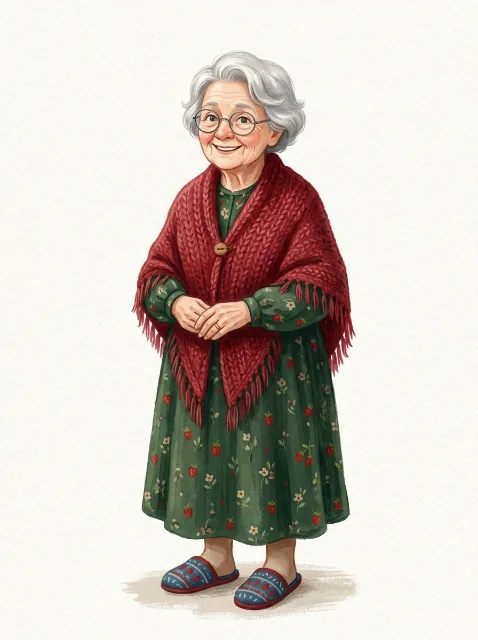
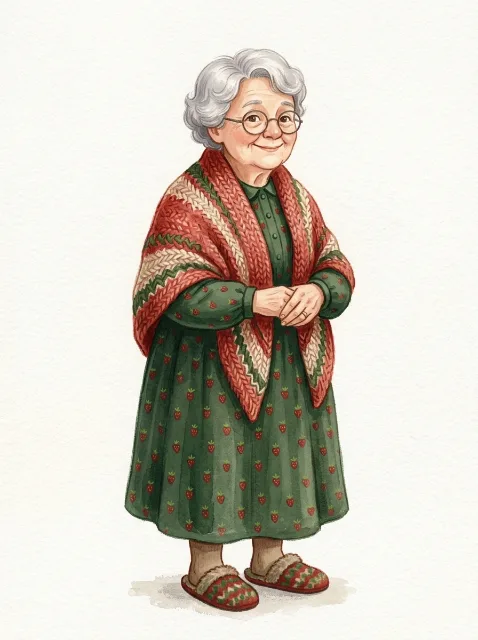
Look inside: painted example pages, and a real page at the top (#8)
* Look inside: painted example pages with the stand-in family; a real page at the top

- Each spread shows its painted example picture (assets/img/redhood/s<n>.webp), drawn once by the
  cartoon service from our stand-in characters, so every character is in the scene at full strength
  and in the same style as the Meet the characters page.
- The example at the top of the home and story pages is now spread 9 exactly as in the book.

Claude-Session: https://claude.ai/code/session_01FRhcjgdg7b4fVPXzaJmo7w

* Painted example pages for Little Red Riding Hood with our stand-in family (no customer photos)

* Rebuild with the painted example pages

Claude-Session: https://claude.ai/code/session_01FRhcjgdg7b4fVPXzaJmo7w

---------

Changed region(s): [[0.2636, 0.0625, 0.7615, 0.9688]]

diff --git a/dist/little-red-riding-hood.html b/dist/little-red-riding-hood.html
@@ -34,20 +34,13 @@
 <div class="bhero-meta"><span class="chip">Ages 3 to 7</span><span class="chip">12 spreads</span><span class="chip">Hardcover</span><span class="chip"><span class="money" data-eur="39">£34</span></span></div>
 <div class="hero-cta"><a class="btn red" href="#characters">Meet your characters, free</a><a class="btn ghost" href="#look-inside">Look inside</a></div>
 </div>
-<div class="spread" role="img" aria-label="An example page from Little Red Riding Hood">
-<div class="leaf"><p class="kicker">Little Red Riding Hood &middot; page 6</p><p class="story-text">Grandma peeped out of the window and saw a long grey tail. <b>“A wolf in a hurry,”</b> she said, and picked up her rolling pin.</p></div>
-<div class="leaf art"><svg viewBox="0 0 400 500" preserveAspectRatio="xMidYMid slice" aria-hidden="true">
-<rect width="400" height="500" fill="#DDEFE3"/><circle cx="320" cy="90" r="42" fill="#FFE59A"/>
-<path d="M0 300q100-60 200-20t200-30v250H0z" fill="#9CCB8C"/><path d="M0 360q120-40 220 0t180 0v140H0z" fill="#6FAE6A"/>
-<g fill="#2E6B4F"><path d="M40 330 80 170l40 160z"/><path d="M300 320l36-140 36 140z"/><path d="M250 340l26-100 26 100z" opacity=".8"/></g>
-<path d="M150 500q30-80 90-140" stroke="#E9D9B4" stroke-width="34" fill="none" stroke-linecap="round"/>
-<g transform="translate(150 300) scale(1.25)"><path d="M24 126 34 62h32l10 64z" fill="#C8352A"/><path d="M28 50c0-24 44-24 44 0v16H28z" fill="#C8352A"/><circle cx="50" cy="44" r="16" fill="#F3C9A8"/><path d="M34 42c2-14 30-14 32 0-6-6-26-6-32 0z" fill="#7a3b1e"/><circle cx="44" cy="46" r="1.8" fill="#1E1A33"/><circle cx="56" cy="46" r="1.8" fill="#1E1A33"/><path d="M45 52q5 4 10 0" stroke="#1E1A33" stroke-width="1.6" fill="none" stroke-linecap="round"/><path d="M64 90h22l-3 14H67z" fill="#9A5B34"/></g>
-<rect x="300" y="400" width="90" height="26" rx="13" fill="#8a5a3a"/><path d="M296 404q-30-30-10-60 6 24 22 40" fill="#8f8f9a"/>
-</svg></div></div>
+<figure class="hero-spread"><div class="bv-page bv-spread side-right" role="img" aria-label="Spread 9 of Little Red Riding Hood: The Wolf grins to show his very big teeth">
+<div class="bv-pic"><img src="assets/img/redhood/s9.webp" alt=""></div><div class="bv-text"><p>“<b>Granny</b>, what big EYES you have!”</p><p>“All the better to see you with.”</p><p>“And <b>Granny</b>… what big TEETH you have!”</p><p>“All the better to…”</p></div></div>
+<figcaption class="small">Spread 9 of Little Red Riding Hood, with our stand-in family. Yours is painted with your own.</figcaption></figure>
 </section>
 
 <section id="look-inside" class="section" style="--bc:var(--red);padding-top:24px"><div class="wrap">
-<div class="sec-head"><p class="eyebrow">Look inside</p><h2>Flick through the story</h2><p class="lede">Read every page of Little Red Riding Hood with your own family's names. The pictures here are simple stand-ins: in your book, every page is painted with your family as the characters.</p></div>
+<div class="sec-head"><p class="eyebrow">Look inside</p><h2>Flick through the story</h2><p class="lede">Read every page of Little Red Riding Hood with your own family's names. The pictures show our own stand-in family; in your book, every page is painted with your family as the characters.</p></div>
 <div class="bv" data-book="redhood" tabindex="-1">
 <details class="bv-names"><summary>Try it with your names</summary><div class="bv-name-grid"><label class="field"><span>Little Red</span><input type="text" data-name="hero" maxlength="24" placeholder="e.g. Amara"></label><label class="field"><span>Mum</span><input type="text" data-name="mum" maxlength="24" placeholder="e.g. Mummy"></label><label class="field"><span>Grandma</span><input type="text" data-name="grandma" maxlength="24" placeholder="e.g. Granny"></label><label class="field"><span>The woodcutter</span><input type="text" data-name="helper" maxlength="24" placeholder="e.g. Daddy"></label></div></details>
 <div class="bv-stage" aria-live="polite"></div>

diff --git a/dist/index.html b/dist/index.html
@@ -32,16 +32,9 @@
 <p class="lede">The classic fairy tales, beautifully retold, with your child and your family as the characters.</p>
 <div class="hero-cta"><a class="btn red" href="#join">Join the list for 15% off</a><a class="btn ghost" href="little-red-riding-hood.html#look-inside">Look inside our first story</a></div>
 </div>
-<div class="spread" role="img" aria-label="An example page from Little Red Riding Hood">
-<div class="leaf"><p class="kicker">Little Red Riding Hood &middot; page 6</p><p class="story-text">Grandma peeped out of the window and saw a long grey tail. <b>“A wolf in a hurry,”</b> she said, and picked up her rolling pin.</p></div>
-<div class="leaf art"><svg viewBox="0 0 400 500" preserveAspectRatio="xMidYMid slice" aria-hidden="true">
-<rect width="400" height="500" fill="#DDEFE3"/><circle cx="320" cy="90" r="42" fill="#FFE59A"/>
-<path d="M0 300q100-60 200-20t200-30v250H0z" fill="#9CCB8C"/><path d="M0 360q120-40 220 0t180 0v140H0z" fill="#6FAE6A"/>
-<g fill="#2E6B4F"><path d="M40 330 80 170l40 160z"/><path d="M300 320l36-140 36 140z"/><path d="M250 340l26-100 26 100z" opacity=".8"/></g>
-<path d="M150 500q30-80 90-140" stroke="#E9D9B4" stroke-width="34" fill="none" stroke-linecap="round"/>
-<g transform="translate(150 300) scale(1.25)"><path d="M24 126 34 62h32l10 64z" fill="#C8352A"/><path d="M28 50c0-24 44-24 44 0v16H28z" fill="#C8352A"/><circle cx="50" cy="44" r="16" fill="#F3C9A8"/><path d="M34 42c2-14 30-14 32 0-6-6-26-6-32 0z" fill="#7a3b1e"/><circle cx="44" cy="46" r="1.8" fill="#1E1A33"/><circle cx="56" cy="46" r="1.8" fill="#1E1A33"/><path d="M45 52q5 4 10 0" stroke="#1E1A33" stroke-width="1.6" fill="none" stroke-linecap="round"/><path d="M64 90h22l-3 14H67z" fill="#9A5B34"/></g>
-<rect x="300" y="400" width="90" height="26" rx="13" fill="#8a5a3a"/><path d="M296 404q-30-30-10-60 6 24 22 40" fill="#8f8f9a"/>
-</svg></div></div>
+<figure class="hero-spread"><div class="bv-page bv-spread side-right" role="img" aria-label="Spread 9 of Little Red Riding Hood: The Wolf grins to show his very big teeth">
+<div class="bv-pic"><img src="assets/img/redhood/s9.webp" alt=""></div><div class="bv-text"><p>“<b>Granny</b>, what big EYES you have!”</p><p>“All the better to see you with.”</p><p>“And <b>Granny</b>… what big TEETH you have!”</p><p>“All the better to…”</p></div></div>
+<figcaption class="small">Spread 9 of Little Red Riding Hood, with our stand-in family. Yours is painted with your own.</figcaption></figure>
 </div></section>
 
 <section id="stories" class="shelf-wrap section" style="padding-top:28px" aria-label="Our stories"><div class="wrap">

diff --git a/assets/js/data.js b/assets/js/data.js
@@ -37,8 +37,10 @@ FST.stories = {
   redhood: {
     slug: "little-red-riding-hood", name: "Little Red Riding Hood", short: "Little Red", color: "red", ready: true,
     /* Our own stand-in characters (hero, mum, grandma, helper) and the villain, drawn by the cartoon service in the
-       book's painted style. A part with no family photo uses its stand-in. Files: <art><key>.webp */
+       book's painted style. A part with no family photo uses its stand-in. Files: <art><key>.webp
+       Example pictures for each spread (painted with the stand-ins): <art>s<n>.webp. hero: the spread shown at the top of the page. */
     art: "assets/img/redhood/",
+    hero: 9,
     line: "A walk in the woods, a very silly Wolf, and a Grandma who's nobody's fool.",
     blurb: "Little Red sets off through the forest with a basket of honey buns for Grandma. The Wolf has a plan, but Grandma has a rolling pin. Our gentle retelling: nobody gets eaten, and the Wolf runs off over the hill.",
     spreads: 12,
@@ -85,7 +87,6 @@ FST.stories = {
       { side: "right", scene: "kitchen", pic: "{grandma}, {helper} and Little Red share honey buns and soup",
         text: "Then {grandma}, {helper} and Little Red sat down together for honey buns and soup.\n“Next time,” said Little Red, “I'll stay on the path.”\n“And I'll keep my rolling pin handy,” laughed {grandma}.\nThe End." }
     ],
-    sample: "Grandma peeped out of the window and saw a long grey tail. <b>“A wolf in a hurry,”</b> she said, and picked up her rolling pin."
   },
   goldilocks: {
     slug: "goldilocks", name: "Goldilocks and the Three Bears", short: "Goldilocks", color: "sun",

diff --git a/dist/assets/js/data.js b/dist/assets/js/data.js
@@ -37,8 +37,10 @@ FST.stories = {
   redhood: {
     slug: "little-red-riding-hood", name: "Little Red Riding Hood", short: "Little Red", color: "red", ready: true,
     /* Our own stand-in characters (hero, mum, grandma, helper) and the villain, drawn by the cartoon service in the
-       book's painted style. A part with no family photo uses its stand-in. Files: <art><key>.webp */
+       book's painted style. A part with no family photo uses its stand-in. Files: <art><key>.webp
+       Example pictures for each spread (painted with the stand-ins): <art>s<n>.webp. hero: the spread shown at the top of the page. */
     art: "assets/img/redhood/",
+    hero: 9,
     line: "A walk in the woods, a very silly Wolf, and a Grandma who's nobody's fool.",
     blurb: "Little Red sets off through the forest with a basket of honey buns for Grandma. The Wolf has a plan, but Grandma has a rolling pin. Our gentle retelling: nobody gets eaten, and the Wolf runs off over the hill.",
     spreads: 12,
@@ -85,7 +87,6 @@ FST.stories = {
       { side: "right", scene: "kitchen", pic: "{grandma}, {helper} and Little Red share honey buns and soup",
         text: "Then {grandma}, {helper} and Little Red sat down together for honey buns and soup.\n“Next time,” said Little Red, “I'll stay on the path.”\n“And I'll keep my rolling pin handy,” laughed {grandma}.\nThe End." }
     ],
-    sample: "Grandma peeped out of the window and saw a long grey tail. <b>“A wolf in a hurry,”</b> she said, and picked up her rolling pin."
   },
   goldilocks: {
     slug: "goldilocks", name: "Goldilocks and the Three Bears", short: "Goldilocks", color: "sun",

diff --git a/assets/css/site.css b/assets/css/site.css
@@ -407,3 +407,12 @@ textarea { min-height: 90px; resize: vertical; }
 .mk-pic.standin img { opacity: .55; filter: saturate(.7); }
 .mk-tag { position: absolute; bottom: 8px; left: 50%; transform: translateX(-50%); white-space: nowrap; font: 700 11px/1 var(--body); letter-spacing: .06em; text-transform: uppercase; background: var(--surface); color: var(--muted); border-radius: 999px; padding: 6px 9px; border: 1px solid var(--line); }
 .meet figure img { width: 100%; max-width: 140px; aspect-ratio: 3 / 4; object-fit: contain; background: #fff; border-radius: 10px; }
+
+/* Painted example pages */
+.bv-pic > img { width: 100%; height: 100%; object-fit: cover; display: block; }
+.bv-spread .bv-text { background: linear-gradient(var(--fade-dir, 90deg), rgba(251, 246, 236, 0), rgba(251, 246, 236, .86) 22%, rgba(251, 246, 236, .92)); }
+.side-left .bv-text { --fade-dir: 270deg; }
+.hero-spread { margin: 0; display: grid; gap: 10px; }
+.hero-spread .bv-text { font-size: clamp(12px, 1.25vw, 17px); width: 42%; }
+.hero-spread figcaption { text-align: center; }
+@media (max-width: 720px) { .bv-spread .bv-text { background: none; } .hero-spread .bv-text { width: auto; font-size: 16px; } }

diff --git a/dist/assets/css/site.css b/dist/assets/css/site.css
@@ -407,3 +407,12 @@ textarea { min-height: 90px; resize: vertical; }
 .mk-pic.standin img { opacity: .55; filter: saturate(.7); }
 .mk-tag { position: absolute; bottom: 8px; left: 50%; transform: translateX(-50%); white-space: nowrap; font: 700 11px/1 var(--body); letter-spacing: .06em; text-transform: uppercase; background: var(--surface); color: var(--muted); border-radius: 999px; padding: 6px 9px; border: 1px solid var(--line); }
 .meet figure img { width: 100%; max-width: 140px; aspect-ratio: 3 / 4; object-fit: contain; background: #fff; border-radius: 10px; }
+
+/* Painted example pages */
+.bv-pic > img { width: 100%; height: 100%; object-fit: cover; display: block; }
+.bv-spread .bv-text { background: linear-gradient(var(--fade-dir, 90deg), rgba(251, 246, 236, 0), rgba(251, 246, 236, .86) 22%, rgba(251, 246, 236, .92)); }
+.side-left .bv-text { --fade-dir: 270deg; }
+.hero-spread { margin: 0; display: grid; gap: 10px; }
+.hero-spread .bv-text { font-size: clamp(12px, 1.25vw, 17px); width: 42%; }
+.hero-spread figcaption { text-align: center; }
+@media (max-width: 720px) { .bv-spread .bv-text { background: none; } .hero-spread .bv-text { width: auto; font-size: 16px; } }

diff --git a/assets/js/book.js b/assets/js/book.js
@@ -66,8 +66,9 @@
         (anyDrawn ? "" : '<p class="bv-note">These are our own stand-in characters. <a href="#characters">Add your photos</a> to see your family here.</p>') + "</div>";
     } else {
       var p = pg.p;
-      html = '<div class="bv-page bv-spread side-' + p.side + '"><div class="bv-pic">' + tpl("scene-" + p.scene) + (p.wolf ? '<div class="bv-wolf">' + wolf() + "</div>" : "") +
-        '<p class="bv-cap"><span>Picture:</span> ' + cast.fill(p.pic, true) + "</p></div>" +
+      var pic = S.art ? '<img src="' + S.art + "s" + pg.n + '.webp" alt="' + cast.fill(p.pic, true) + '" loading="lazy">'
+        : tpl("scene-" + p.scene) + (p.wolf ? '<div class="bv-wolf">' + wolf() + "</div>" : "");
+      html = '<div class="bv-page bv-spread side-' + p.side + '"><div class="bv-pic">' + pic + "</div>" +
         '<div class="bv-text">' + p.text.split("\n").map(function (line) { return "<p>" + cast.fill(line) + "</p>"; }).join("") + "</div></div>";
     }
     return html;

diff --git a/dist/assets/js/book.js b/dist/assets/js/book.js
@@ -66,8 +66,9 @@
         (anyDrawn ? "" : '<p class="bv-note">These are our own stand-in characters. <a href="#characters">Add your photos</a> to see your family here.</p>') + "</div>";
     } else {
       var p = pg.p;
-      html = '<div class="bv-page bv-spread side-' + p.side + '"><div class="bv-pic">' + tpl("scene-" + p.scene) + (p.wolf ? '<div class="bv-wolf">' + wolf() + "</div>" : "") +
-        '<p class="bv-cap"><span>Picture:</span> ' + cast.fill(p.pic, true) + "</p></div>" +
+      var pic = S.art ? '<img src="' + S.art + "s" + pg.n + '.webp" alt="' + cast.fill(p.pic, true) + '" loading="lazy">'
+        : tpl("scene-" + p.scene) + (p.wolf ? '<div class="bv-wolf">' + wolf() + "</div>" : "");
+      html = '<div class="bv-page bv-spread side-' + p.side + '"><div class="bv-pic">' + pic + "</div>" +
         '<div class="bv-text">' + p.text.split("\n").map(function (line) { return "<p>" + cast.fill(line) + "</p>"; }).join("") + "</div></div>";
     }
     return html;

diff --git a/src/build.py b/src/build.py
@@ -3,7 +3,7 @@
 python3 src/build.py  ->  dist/  (the real site, for GitHub Pages)
 Story data lives in assets/js/data.js; this script reads it with node so there is one source of truth.
 """
-import json, shutil, subprocess
+import json, re, shutil, subprocess
 from pathlib import Path
 from html import escape as e
 
@@ -152,7 +152,7 @@ def look_inside(k):
     s = STORIES[k]
     names = "".join(f'<label class="field"><span>{e(r["name"])}</span><input type="text" data-name="{r["key"]}" maxlength="24" placeholder="e.g. {e(r["example"])}"></label>' for r in s["roles"])
     return f"""<section id="look-inside" class="section" style="--bc:var(--red);padding-top:24px"><div class="wrap">
-<div class="sec-head"><p class="eyebrow">Look inside</p><h2>Flick through the story</h2><p class="lede">Read every page of {e(s["name"])} with your own family's names. The pictures here are simple stand-ins: in your book, every page is painted with your family as the characters.</p></div>
+<div class="sec-head"><p class="eyebrow">Look inside</p><h2>Flick through the story</h2><p class="lede">Read every page of {e(s["name"])} with your own family's names. The pictures show our own stand-in family; in your book, every page is painted with your family as the characters.</p></div>
 <div class="bv" data-book="{k}" tabindex="-1">
 <details class="bv-names"><summary>Try it with your names</summary><div class="bv-name-grid">{names}</div></details>
 <div class="bv-stage" aria-live="polite"></div>
@@ -187,10 +187,16 @@ def maker(k):
 
 
 def spread():
+    """A real page from the book, with the example names and its example picture."""
     s = STORIES["redhood"]
-    return f"""<div class="spread" role="img" aria-label="An example page from Little Red Riding Hood">
-<div class="leaf"><p class="kicker">Little Red Riding Hood &middot; page 6</p><p class="story-text">{s["sample"]}</p></div>
-<div class="leaf art">{FOREST}</div></div>"""
+    n = s.get("hero", 9)
+    pg = s["pages"][n - 1]
+    names = {r["key"]: r["example"] for r in s["roles"]}
+    fill = lambda t: re.sub(r"\{(\w+)\}", lambda m: "<b>" + e(names.get(m.group(1), "")) + "</b>", e(t, quote=False))
+    text = "".join(f"<p>{fill(x)}</p>" for x in pg["text"].split("\n"))
+    return f"""<figure class="hero-spread"><div class="bv-page bv-spread side-{pg["side"]}" role="img" aria-label="Spread {n} of {e(s["name"])}: {e(re.sub(r"[{}]", "", pg["pic"]))}">
+<div class="bv-pic"><img src="{s["art"]}s{n}.webp" alt=""></div><div class="bv-text">{text}</div></div>
+<figcaption class="small">Spread {n} of {e(s["name"])}, with our stand-in family. Yours is painted with your own.</figcaption></figure>"""
 
 
 def meet(story):
